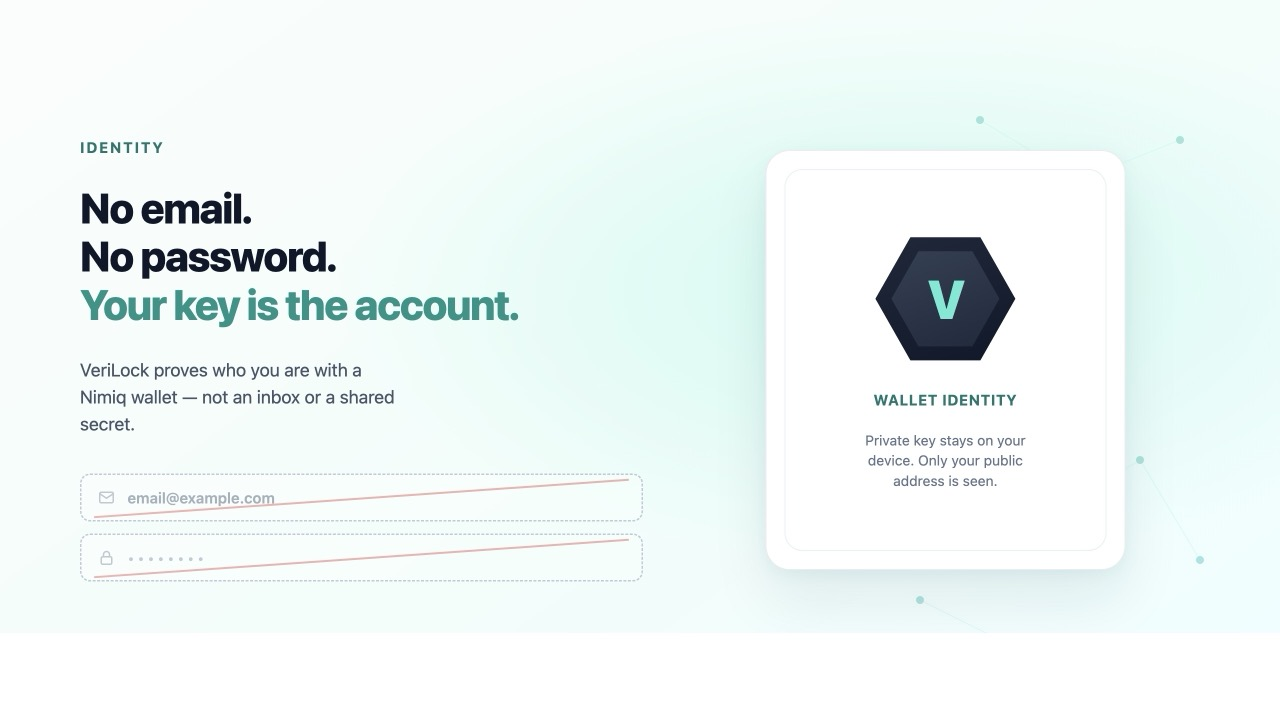
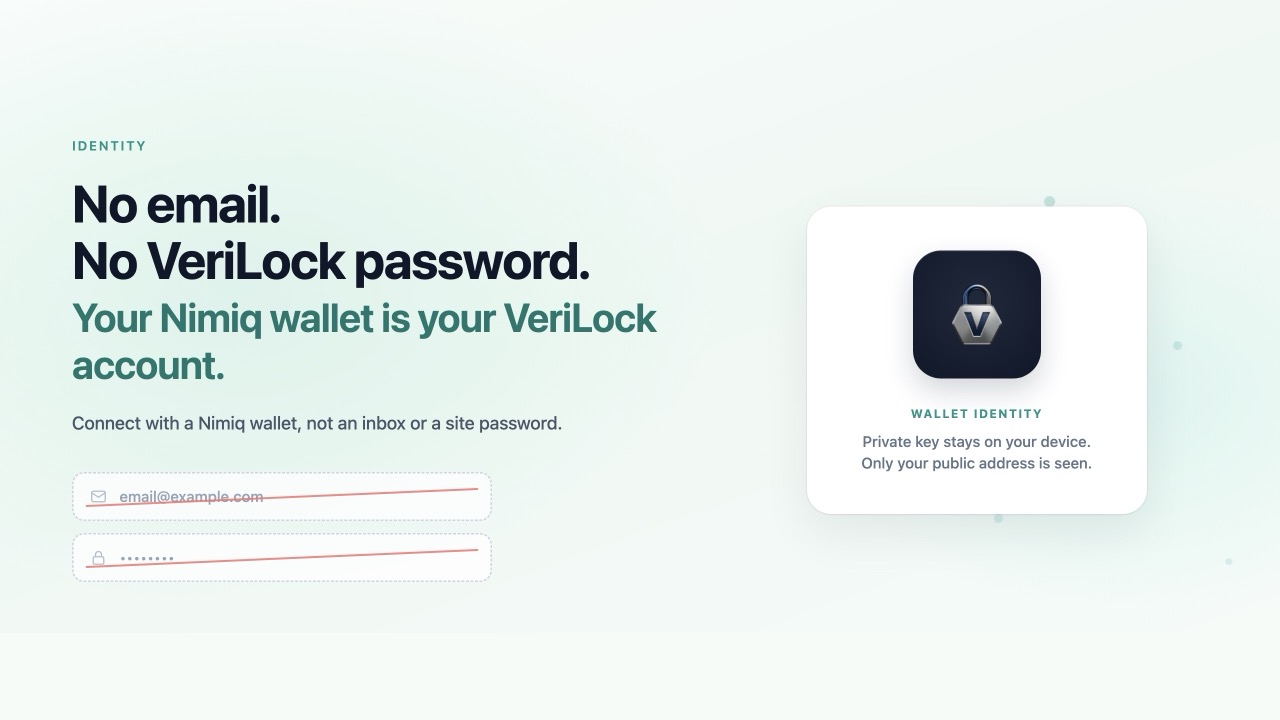
Clarify no VeriLock password claim and refresh blog cover.
Scope the account post to site email/password vs Nimiq wallet identity, note local wallet unlock, and rebuild the cover with the real mark and exact headline.

diff --git a/client/src/blog/posts/no-email-no-password-nimiq-accounts.ts b/client/src/blog/posts/no-email-no-password-nimiq-accounts.ts
@@ -5,14 +5,14 @@ const verify = '/blog/no-email-no-password-nimiq-accounts-verify.jpg'
 
 export const post: BlogPost = {
   slug: 'no-email-no-password-nimiq-accounts',
-  title: 'No Email, No Password: How VeriLock Accounts Work',
+  title: 'No Email, No VeriLock Password: How Accounts Work',
   description:
-    'VeriLock replaces email and passwords with Nimiq wallet keys. Learn how this cryptographic approach secures your identity and keeps data on your device.',
+    'VeriLock has no email or site password. Your Nimiq wallet is the account. Learn how wallet keys replace traditional logins and keep identity on your device.',
   date: '2026-07-19',
   tags: ['guide', 'privacy'],
   coverImage: cover,
   coverAlt:
-    'Light mint graphic: crossed-out email and password fields next to a wallet-identity card with a hexagonal V mark, captioned “Your key is the account”',
+    'Light mint graphic: crossed-out email and password fields next to a wallet-identity card with the VeriLock lock mark. Headline: No email. No VeriLock password. Your Nimiq wallet is your VeriLock account.',
   relatedSlugs: [
     'how-verilock-works',
     'what-is-verilock',
@@ -21,11 +21,11 @@ export const post: BlogPost = {
   body: [
     {
       type: 'p',
-      text: 'Your email inbox is a security liability. Passwords are frequently compromised. VeriLock removes these vulnerabilities entirely. There is no sign in with Google. There is no Microsoft account. We store no email addresses on our servers. Your account exists solely as a cryptographic key pair.',
+      text: 'Your email inbox is a security liability. Site passwords are frequently compromised. VeriLock does not use either. There is no sign in with Google. There is no Microsoft account. We store no email addresses on our servers. Your account is the cryptographic key pair behind your Nimiq wallet.',
     },
     {
       type: 'p',
-      text: 'This key pair lives on the Nimiq network. It is the actual mechanism that grants access. When you connect your wallet, you prove ownership of your identity. You do not share secrets. You simply verify your presence.',
+      text: 'When you connect that wallet, you prove ownership of the address. You do not hand VeriLock a shared secret. The private key stays on your device. Only the public address is used to load your history and sign.',
     },
     {
       type: 'h2',
@@ -42,29 +42,34 @@ export const post: BlogPost = {
     {
       type: 'figure',
       src: cover,
-      alt: 'Email and password fields struck through beside a wallet identity card: private key stays on device',
-      caption: 'No inbox, no password vault. Your Nimiq wallet key is the account; only the public address is shared.',
+      alt: 'Email and password fields struck through beside a wallet identity card with the VeriLock mark: private key stays on device',
+      caption:
+        'No inbox, no VeriLock password. Your Nimiq wallet is the account; only the public address is shared.',
     },
     {
       type: 'h2',
-      text: 'Why Remove Email and Passwords?',
+      text: 'Why Remove Email and Site Passwords?',
     },
     {
       type: 'p',
-      text: 'We removed these options to enforce security and privacy. Email inboxes are frequent targets. Passwords are often weak or reused. Eliminating them removes the attack surface.',
+      text: 'We removed these options to enforce security and privacy. Email inboxes are frequent targets. Site passwords are often weak or reused. Eliminating them removes that attack surface on VeriLock.',
     },
     {
       type: 'ul',
       items: [
         'No central database of emails to steal',
-        'No passwords to reset or forget',
+        'No VeriLock password to reset or forget',
         'No SMS codes to intercept',
         'Full control remains with the user',
       ],
     },
     {
       type: 'p',
-      text: 'This model aligns with our core promise. Your PDF stays on your device. We calculate a local SHA-256 fingerprint. We do not upload your file. We only lock that fingerprint on the blockchain. Your identity works the same way: proof without a shared secret.',
+      text: 'Nimiq Hub or Pay may still use a local unlock on your device. That protects the wallet keystore. It is not a VeriLock site password, and we never receive it.',
+    },
+    {
+      type: 'p',
+      text: 'This model aligns with our core promise. Your PDF stays on your device. We calculate a local SHA-256 fingerprint. We do not upload your file. We only lock that fingerprint on the blockchain. Your identity works the same way: proof without a shared secret on our servers.',
     },
     {
       type: 'h2',
@@ -72,11 +77,11 @@ export const post: BlogPost = {
     },
     {
       type: 'p',
-      text: 'Connect the same wallet to return. The system reads your public address. It instantly loads the agreement history associated with that address. There is no waiting for an email link. There is no two-factor delay.',
+      text: 'Connect the same wallet to return. The system reads your public address. It instantly loads the agreement history associated with that address. There is no waiting for an email link. There is no two-factor delay from us.',
     },
     {
       type: 'note',
-      text: 'Losing your wallet seed phrase means losing access to your account history. There is no password reset button. Guard your keys carefully.',
+      text: 'Losing your wallet seed phrase means losing access to your account history. There is no VeriLock password reset button. Guard your keys carefully.',
     },
     {
       type: 'quote',